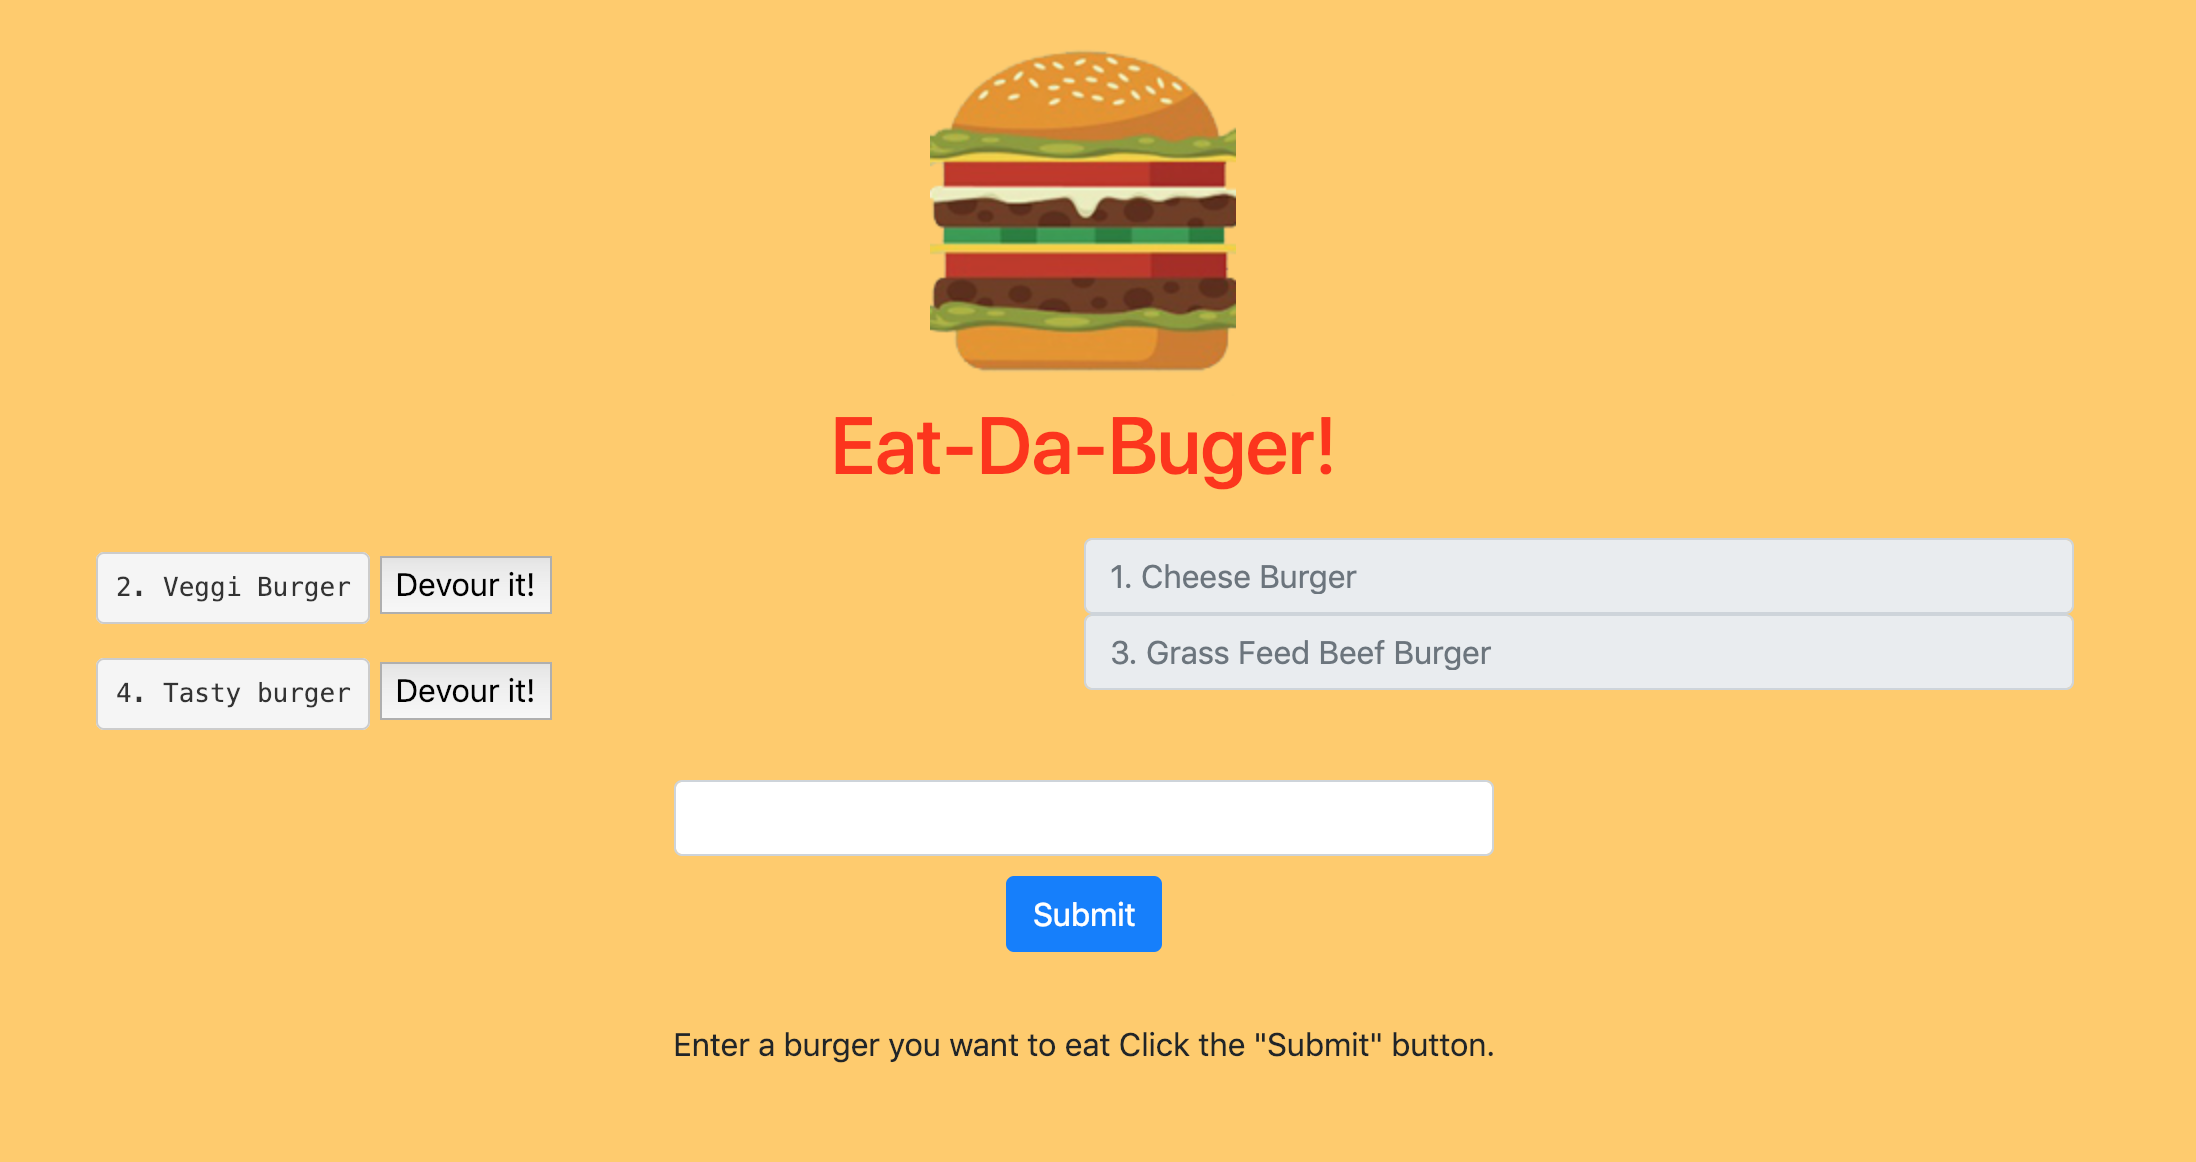
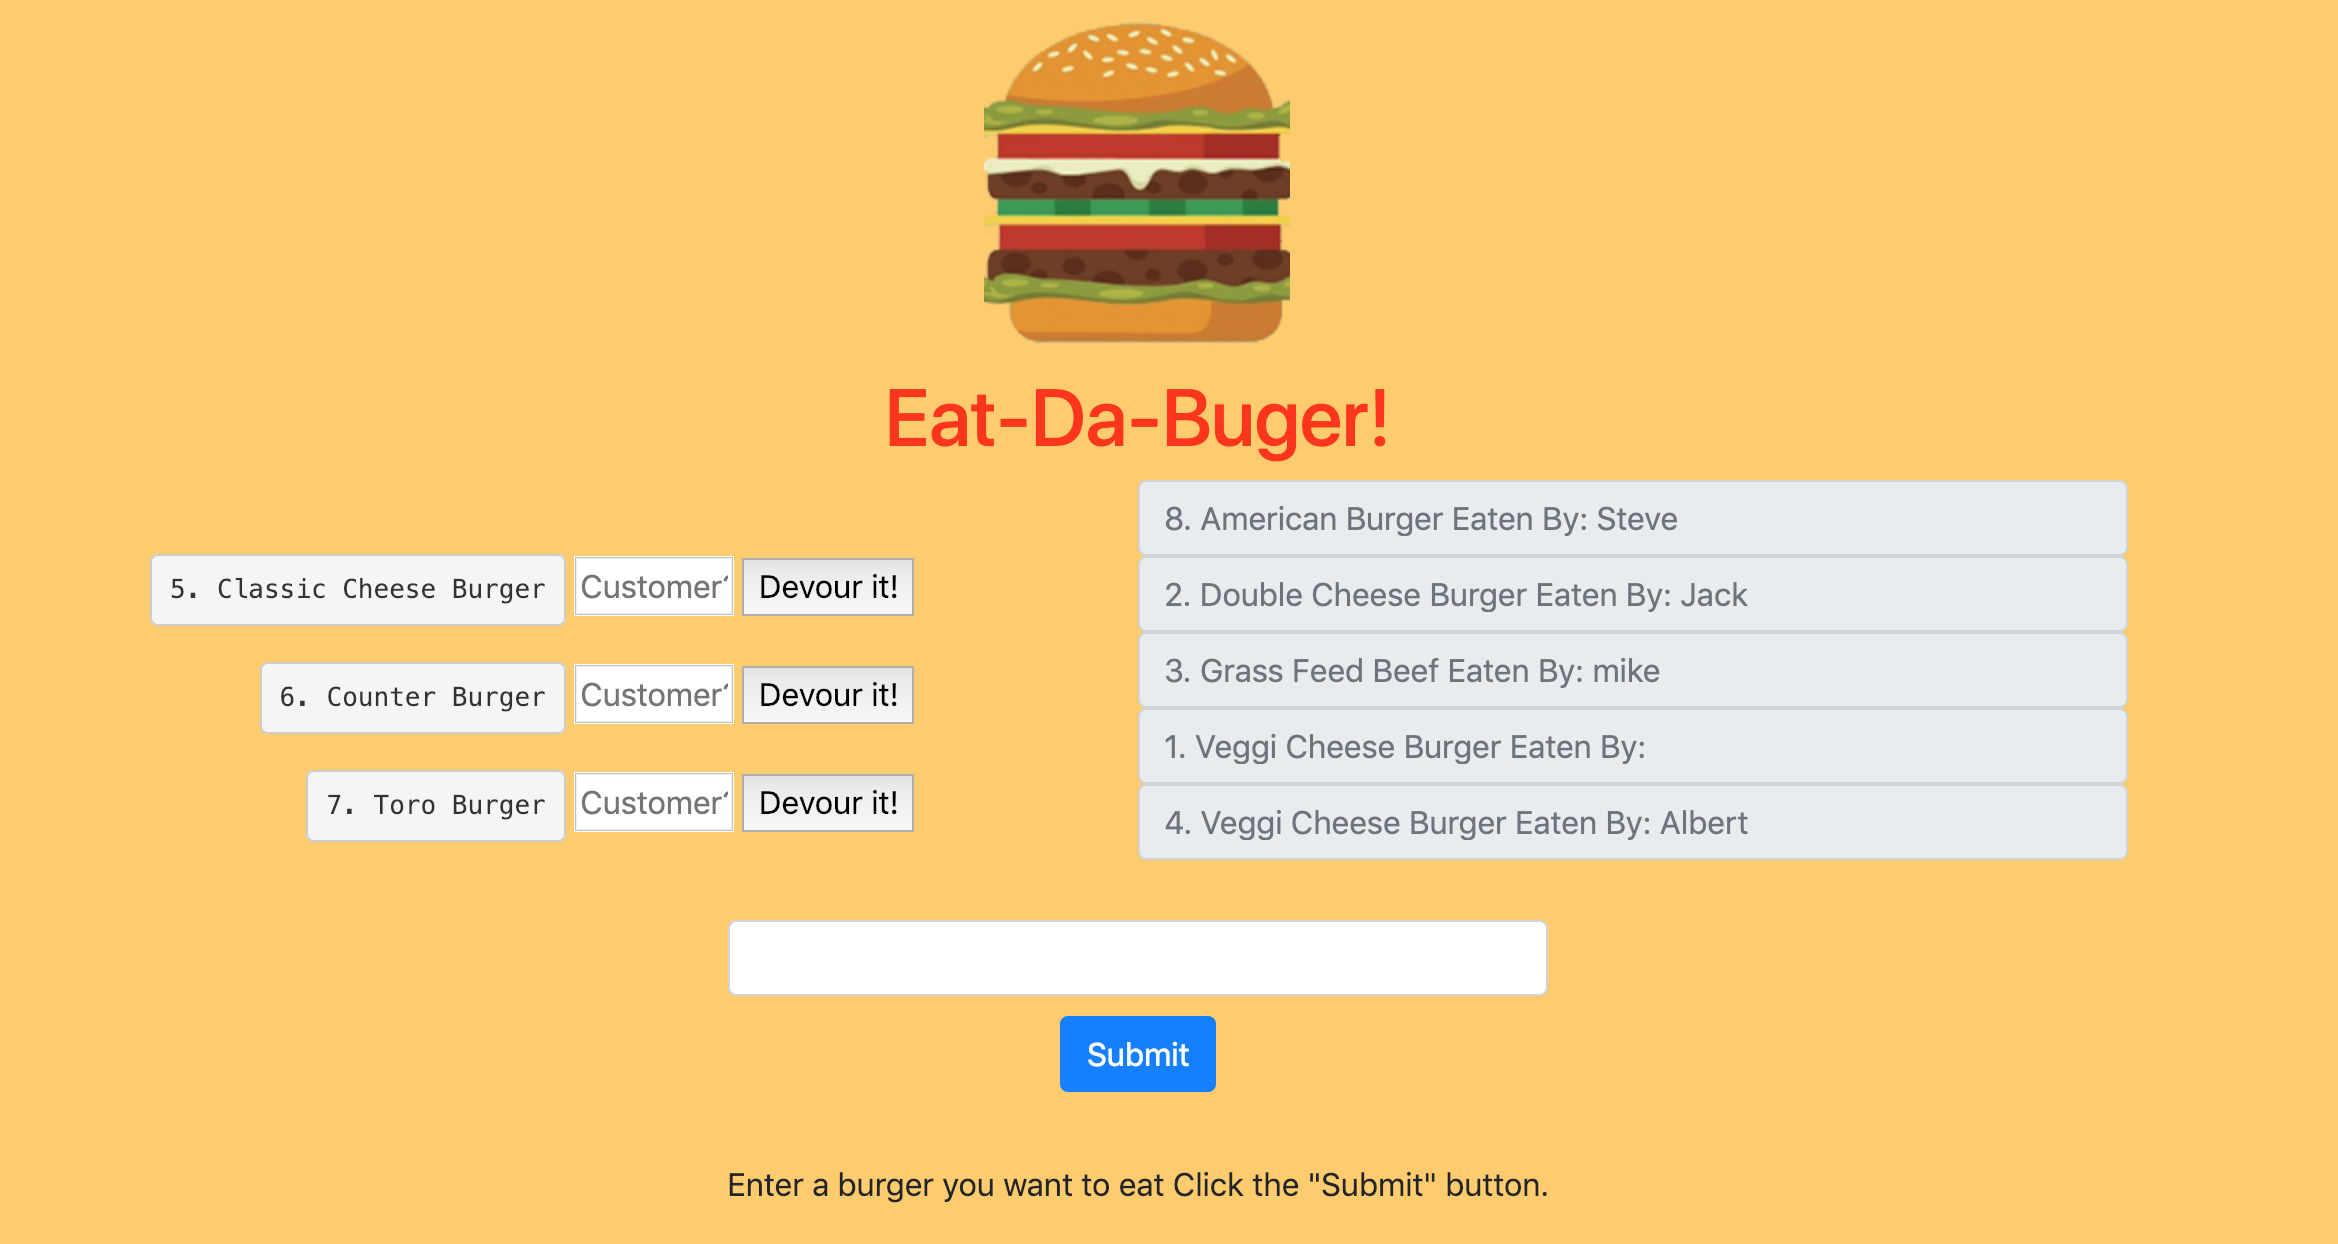
updated readme

Changed region(s): [[0.031, 0.0, 0.9599, 0.9604]]

diff --git a/README.md b/README.md
@@ -1,8 +1,8 @@
-# Burger App with Node, Express and Handlebars
+# Burger App with Node, Express and Handlebars and Sequelize ORM
 
 ![Buger App Screenshot](./public/assets/img/screenshot.png)
 
-[Deployed Site](https://infinite-scrubland-72549.herokuapp.com/)
+[Deployed Site](https://cryptic-citadel-68537.herokuapp.com/)
 
 ### Overview
 
@@ -10,16 +10,18 @@
 
 * Whenever a user submits a burger's name, your app will display the burger on the left side of the page -- waiting to be devoured.
 
-* Each burger in the waiting area also has a `Devour it!` button. When the user clicks it, the burger will move to the right side of the page.
+* Each burger in the waiting area also has a `Devour it!` button. When the user clicks it, the burger will move to the right side of the page. If you fill out the customer field, the customers name will be displayed next to the burger thet devoured.
 
 * The app will store every burger in a database, whether devoured or not.
+
+* Once the burger is devoured the customer is stored in the database with an association to the burger they devoured.
 
 ## Installation
 
 To install the application follow the instructions below:
 
-	git clone https://github.com/Bgosse1/burger.git
-	cd burger
+	git clone https://github.com/Bgosse1/sequelizedBurger.git
+	cd sequelizedBurger
 	npm install
 
 To setup the database follow the instructions below:
@@ -27,8 +29,7 @@ To setup the database follow the instructions below:
 * Run the seeds.sql to populate the table.
 
 ## Running Locally
-Before running locally change the connection information in the connection.js file to point
-to your local database.
+Before running locally change the connection information in the development section of the config.json file to point to your local database.
 
 To run the application locally and access it in your browser, run
 
